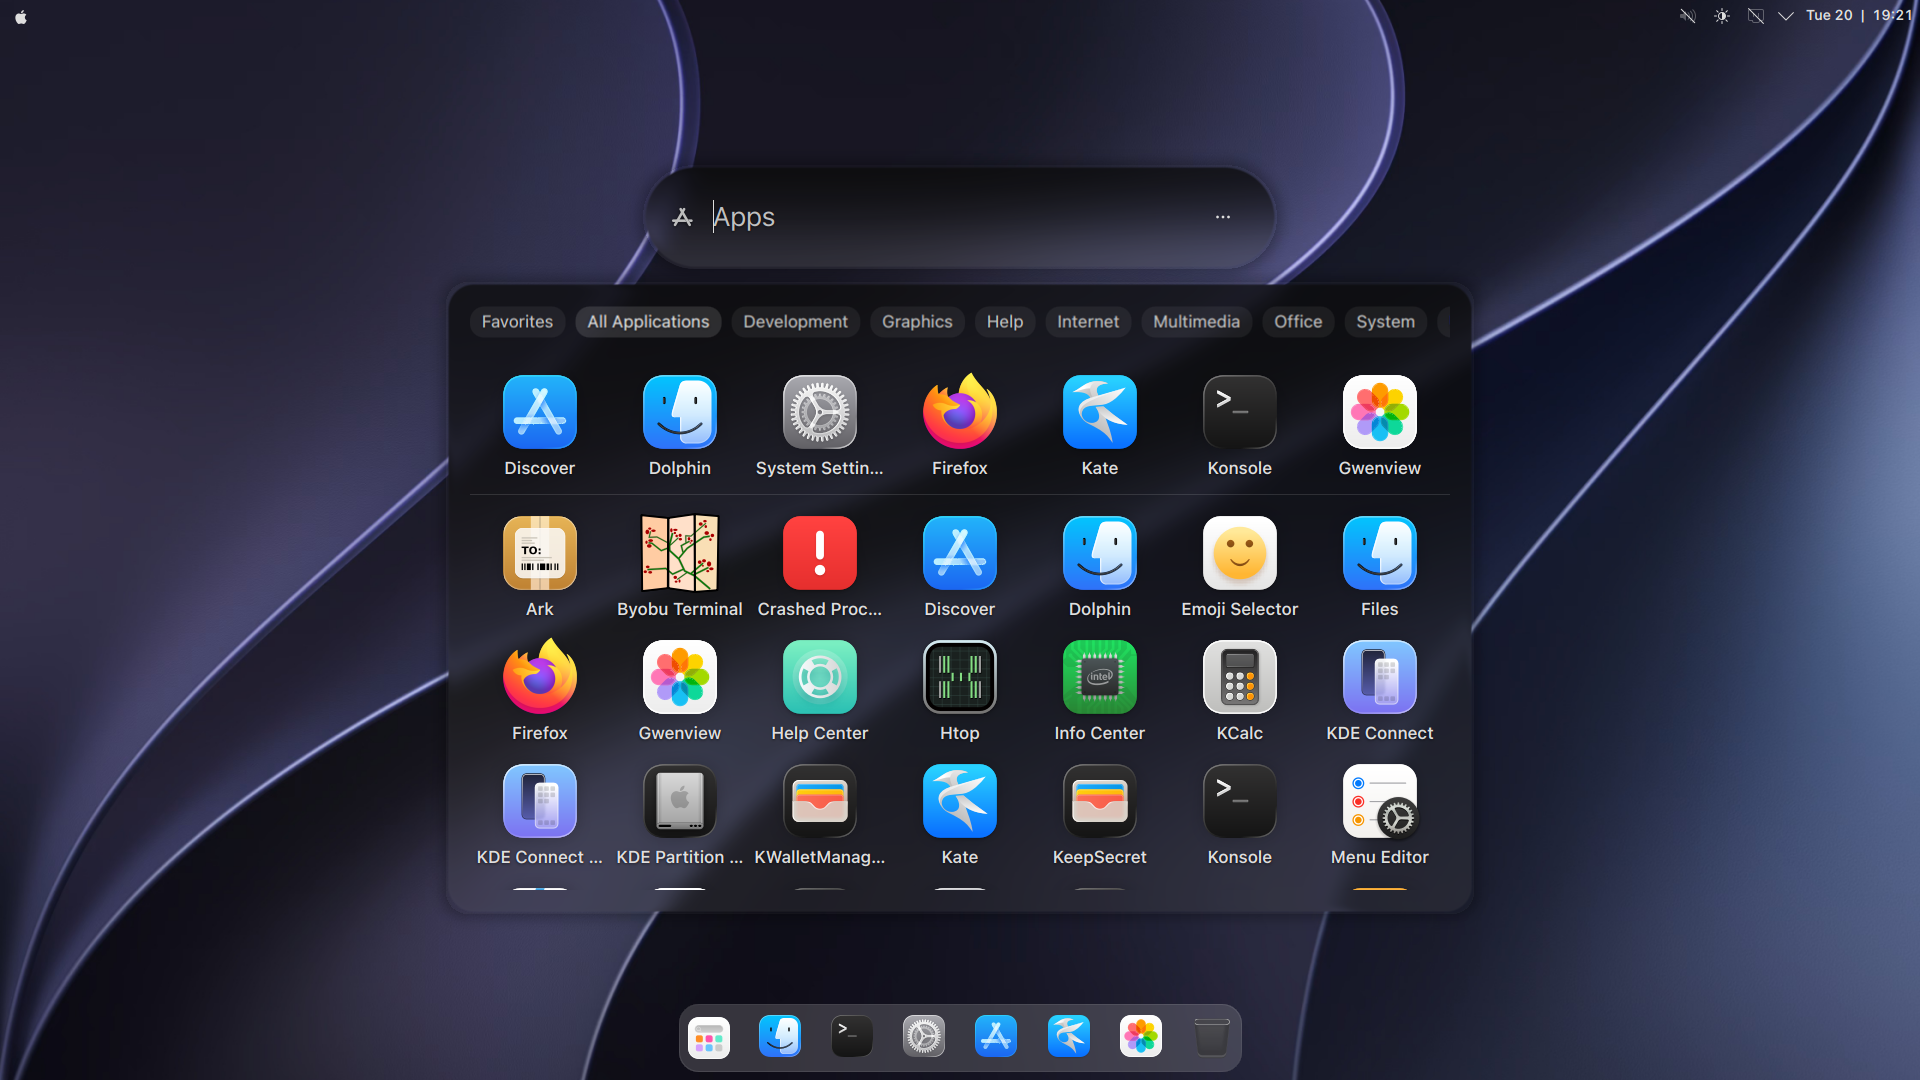
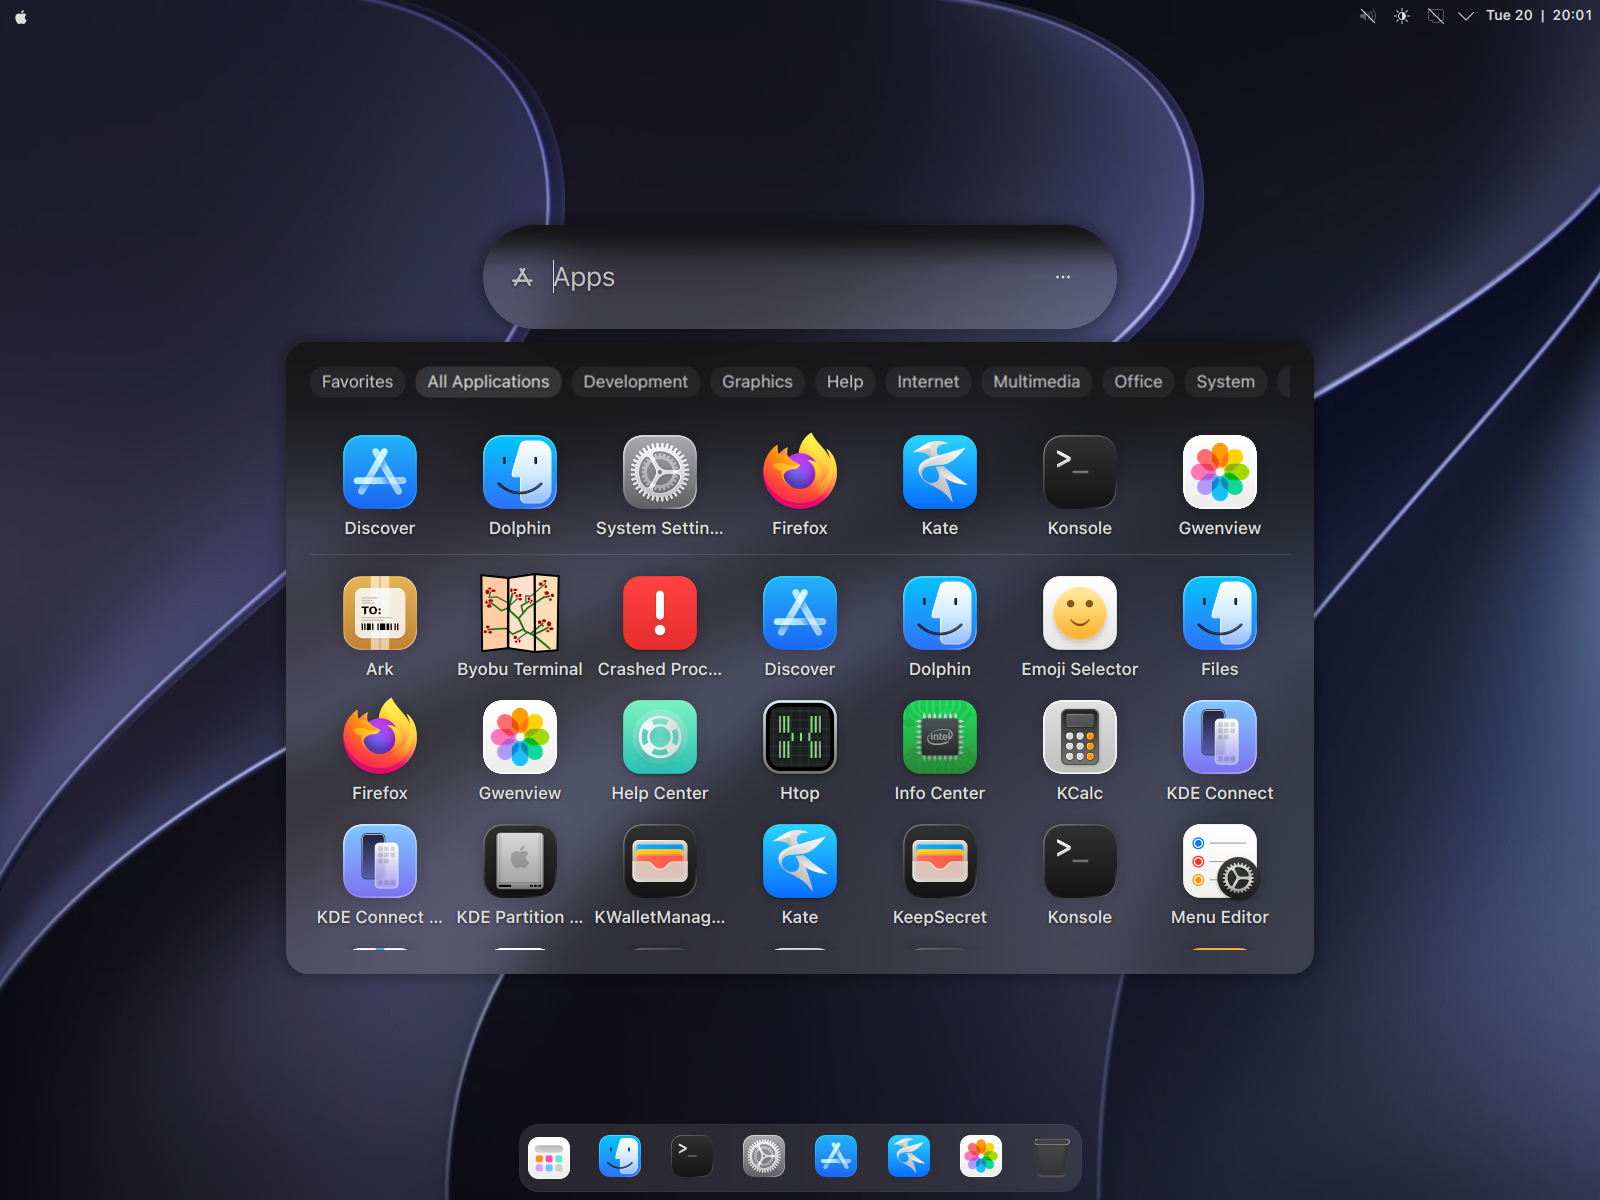
Release v0.56.3: update glass material and screenshots

diff --git a/README.md b/README.md
@@ -17,7 +17,7 @@ macOS Golden Gate-inspired glass, Dock, global menu and app themes for KDE Plasm
 
 ### Acrylic Glass Golden Gate Launcher
 
-The **Golden Gate** glass preset combines deeper blur, gentler refraction and a black upper gradient on menus in both light and dark mode. The Dock keeps clear, blurred glass without the gradient. Both modes use transparent surfaces. Choose **Clear**, **Tahoe** or **Golden Gate** in the Acrylic Glass effect settings, then customize the complete material. [Material settings](https://github.com/lestercorderomurillo/macos-tahoe-liquid-kde/blob/main/docs/glass-materials.md).
+The **Golden Gate** glass preset combines deeper blur, restrained color refraction and a black upper gradient on menus in both light and dark mode. The tint starts at 95% opacity and fades out across the upper half; the lower half stays untinted glass. The Dock keeps clear, blurred glass without the gradient. Both modes use transparent surfaces. Choose **Clear**, **Tahoe** or **Golden Gate** in the Acrylic Glass effect settings, then customize the complete material. [Material settings](https://github.com/lestercorderomurillo/macos-tahoe-liquid-kde/blob/main/docs/glass-materials.md).
 
 <p align="center">
   <img src="src/screenshots/launcher_preset_2_light.png" alt="Default Golden Gate preset 2 in light mode, with detached search and Golden Gate wallpaper" width="415">

diff --git a/AGENTS.md b/AGENTS.md
@@ -33,6 +33,7 @@ The shared Acrylic Glass KCM offers Clear, Tahoe and Golden Gate materials.
 The edition initially selects Golden Gate; explicit saved material selections
 and individual overrides must survive reinstalls. Preset data and rendering
 live only in Tahoe, including transparent shared Plasma/Kvantum popup surfaces.
-Golden Gate menus retain their black upper gradient in light and dark mode;
+Golden Gate menus retain their black upper gradient in light and dark mode:
+95% black at the top, fading to zero at 50% of the surface height;
 the Dock is exempt from the gradient while retaining blur and refraction.
 There is no Reduced Transparency preference or generated opaque variant.
